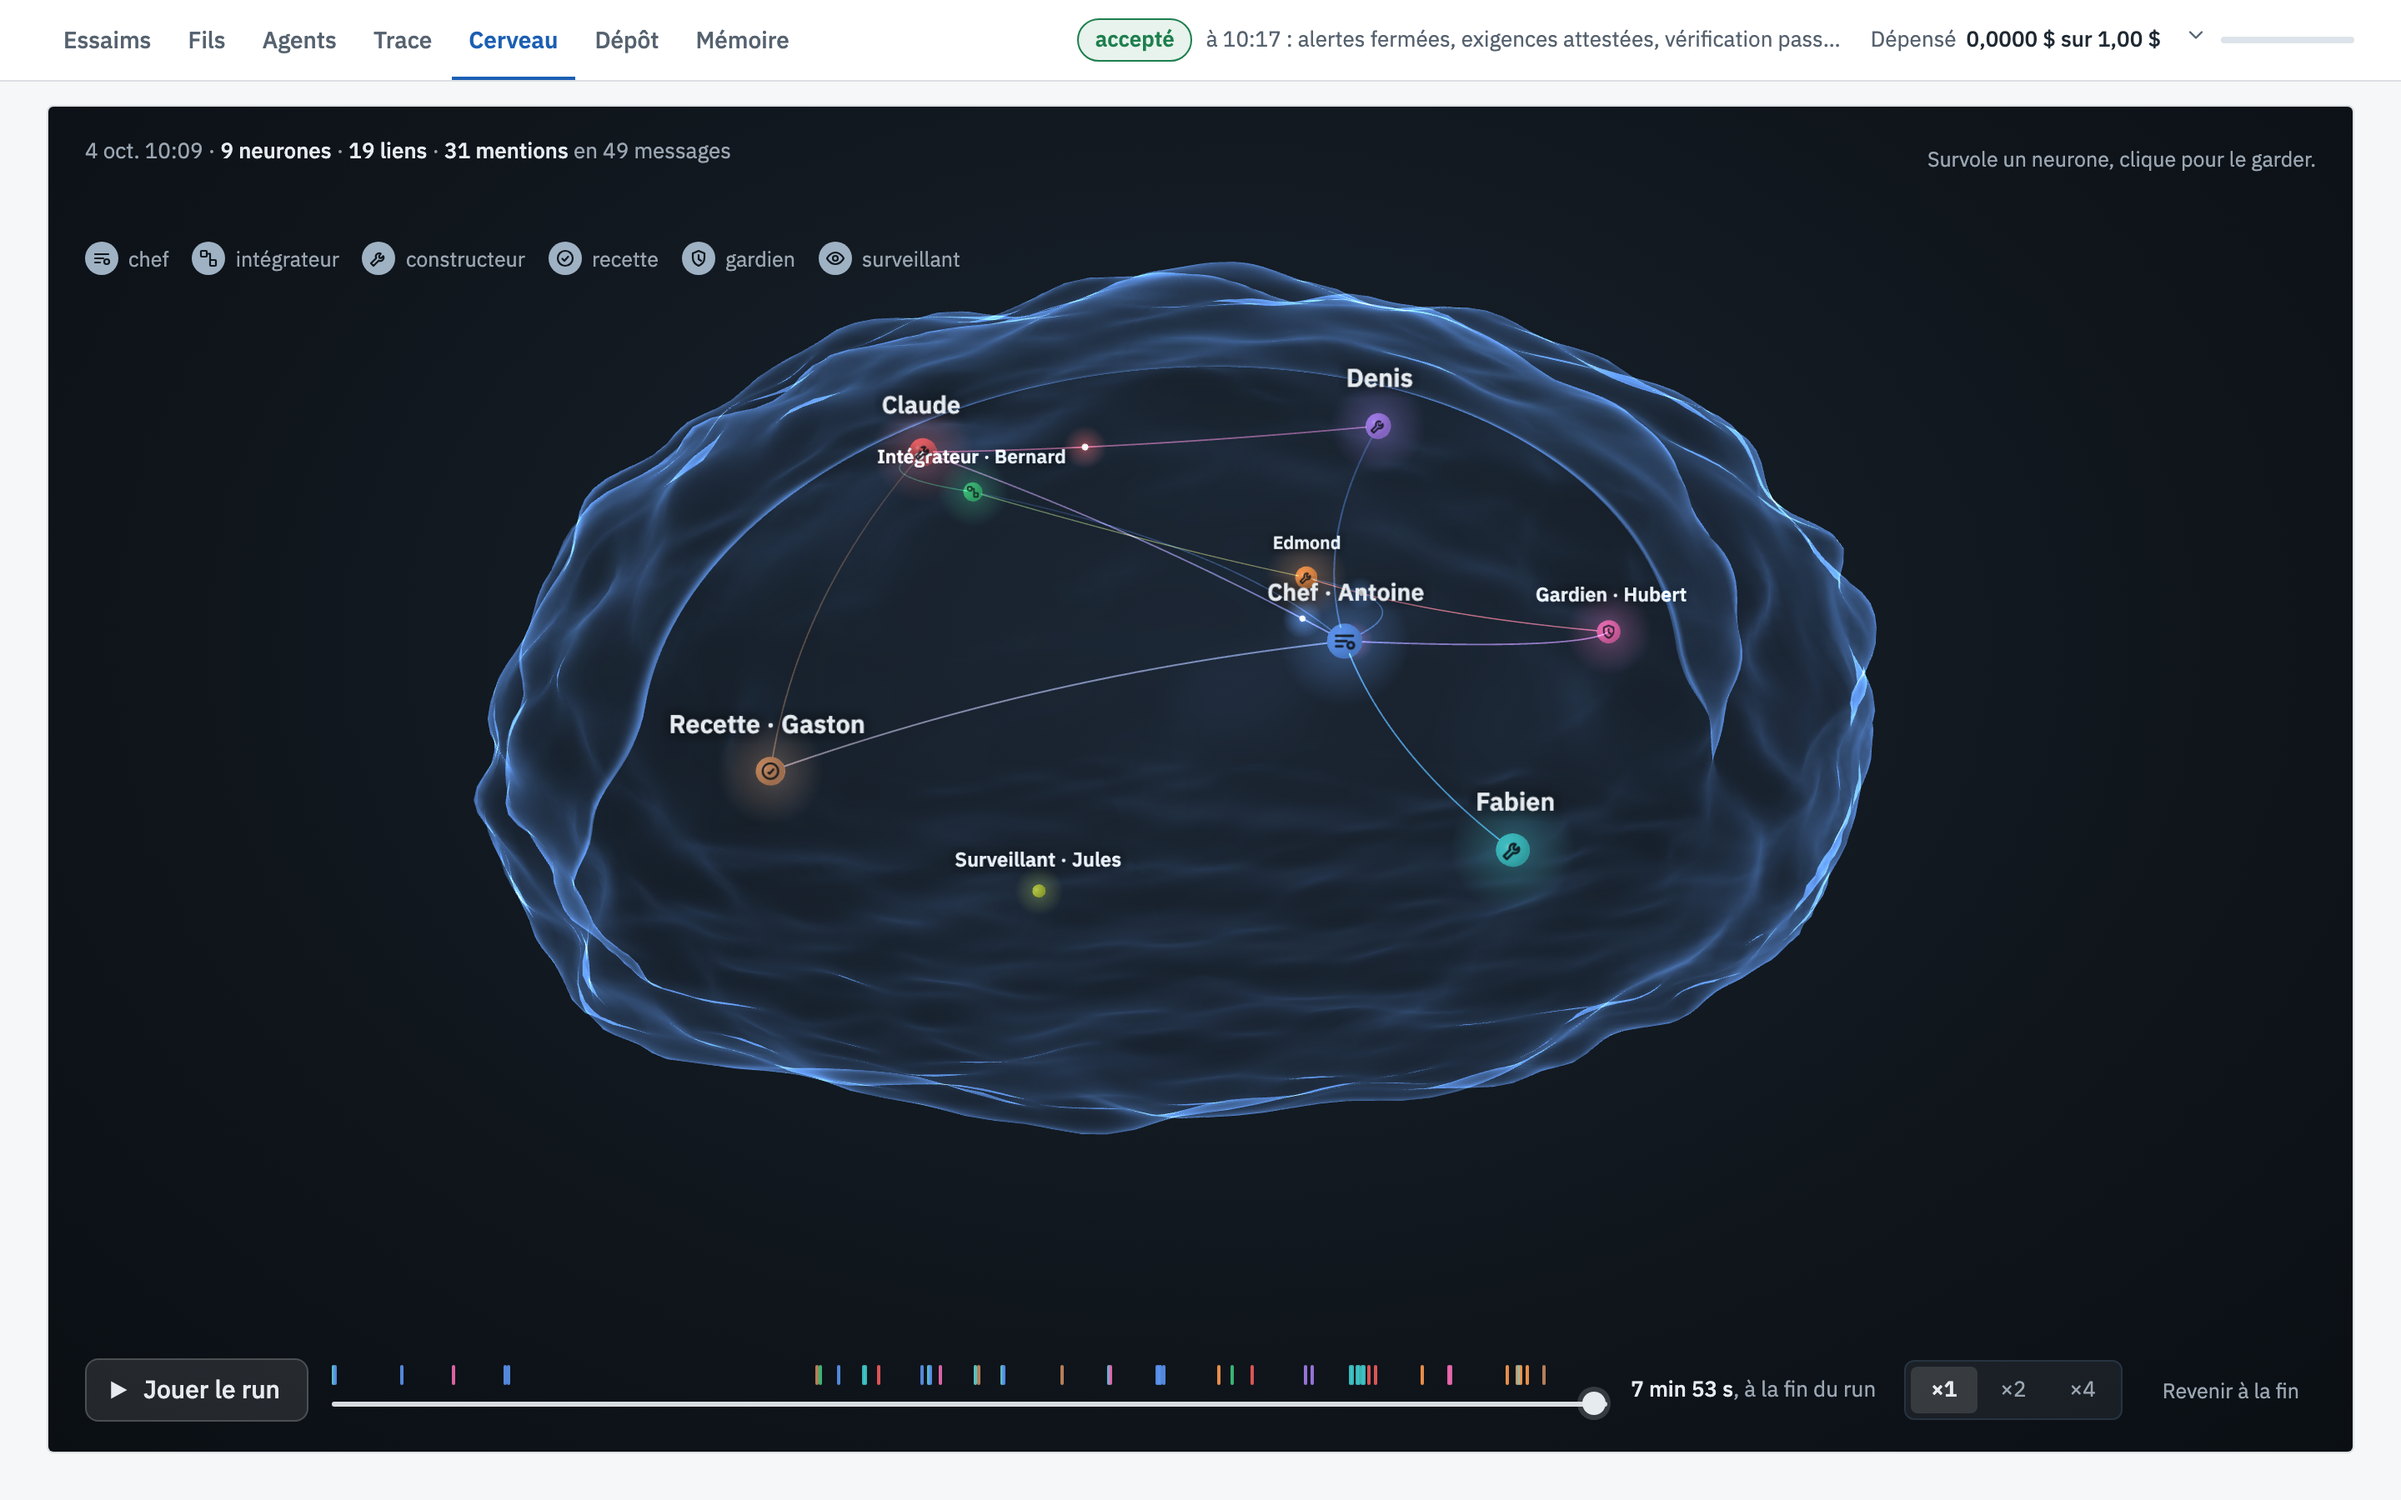
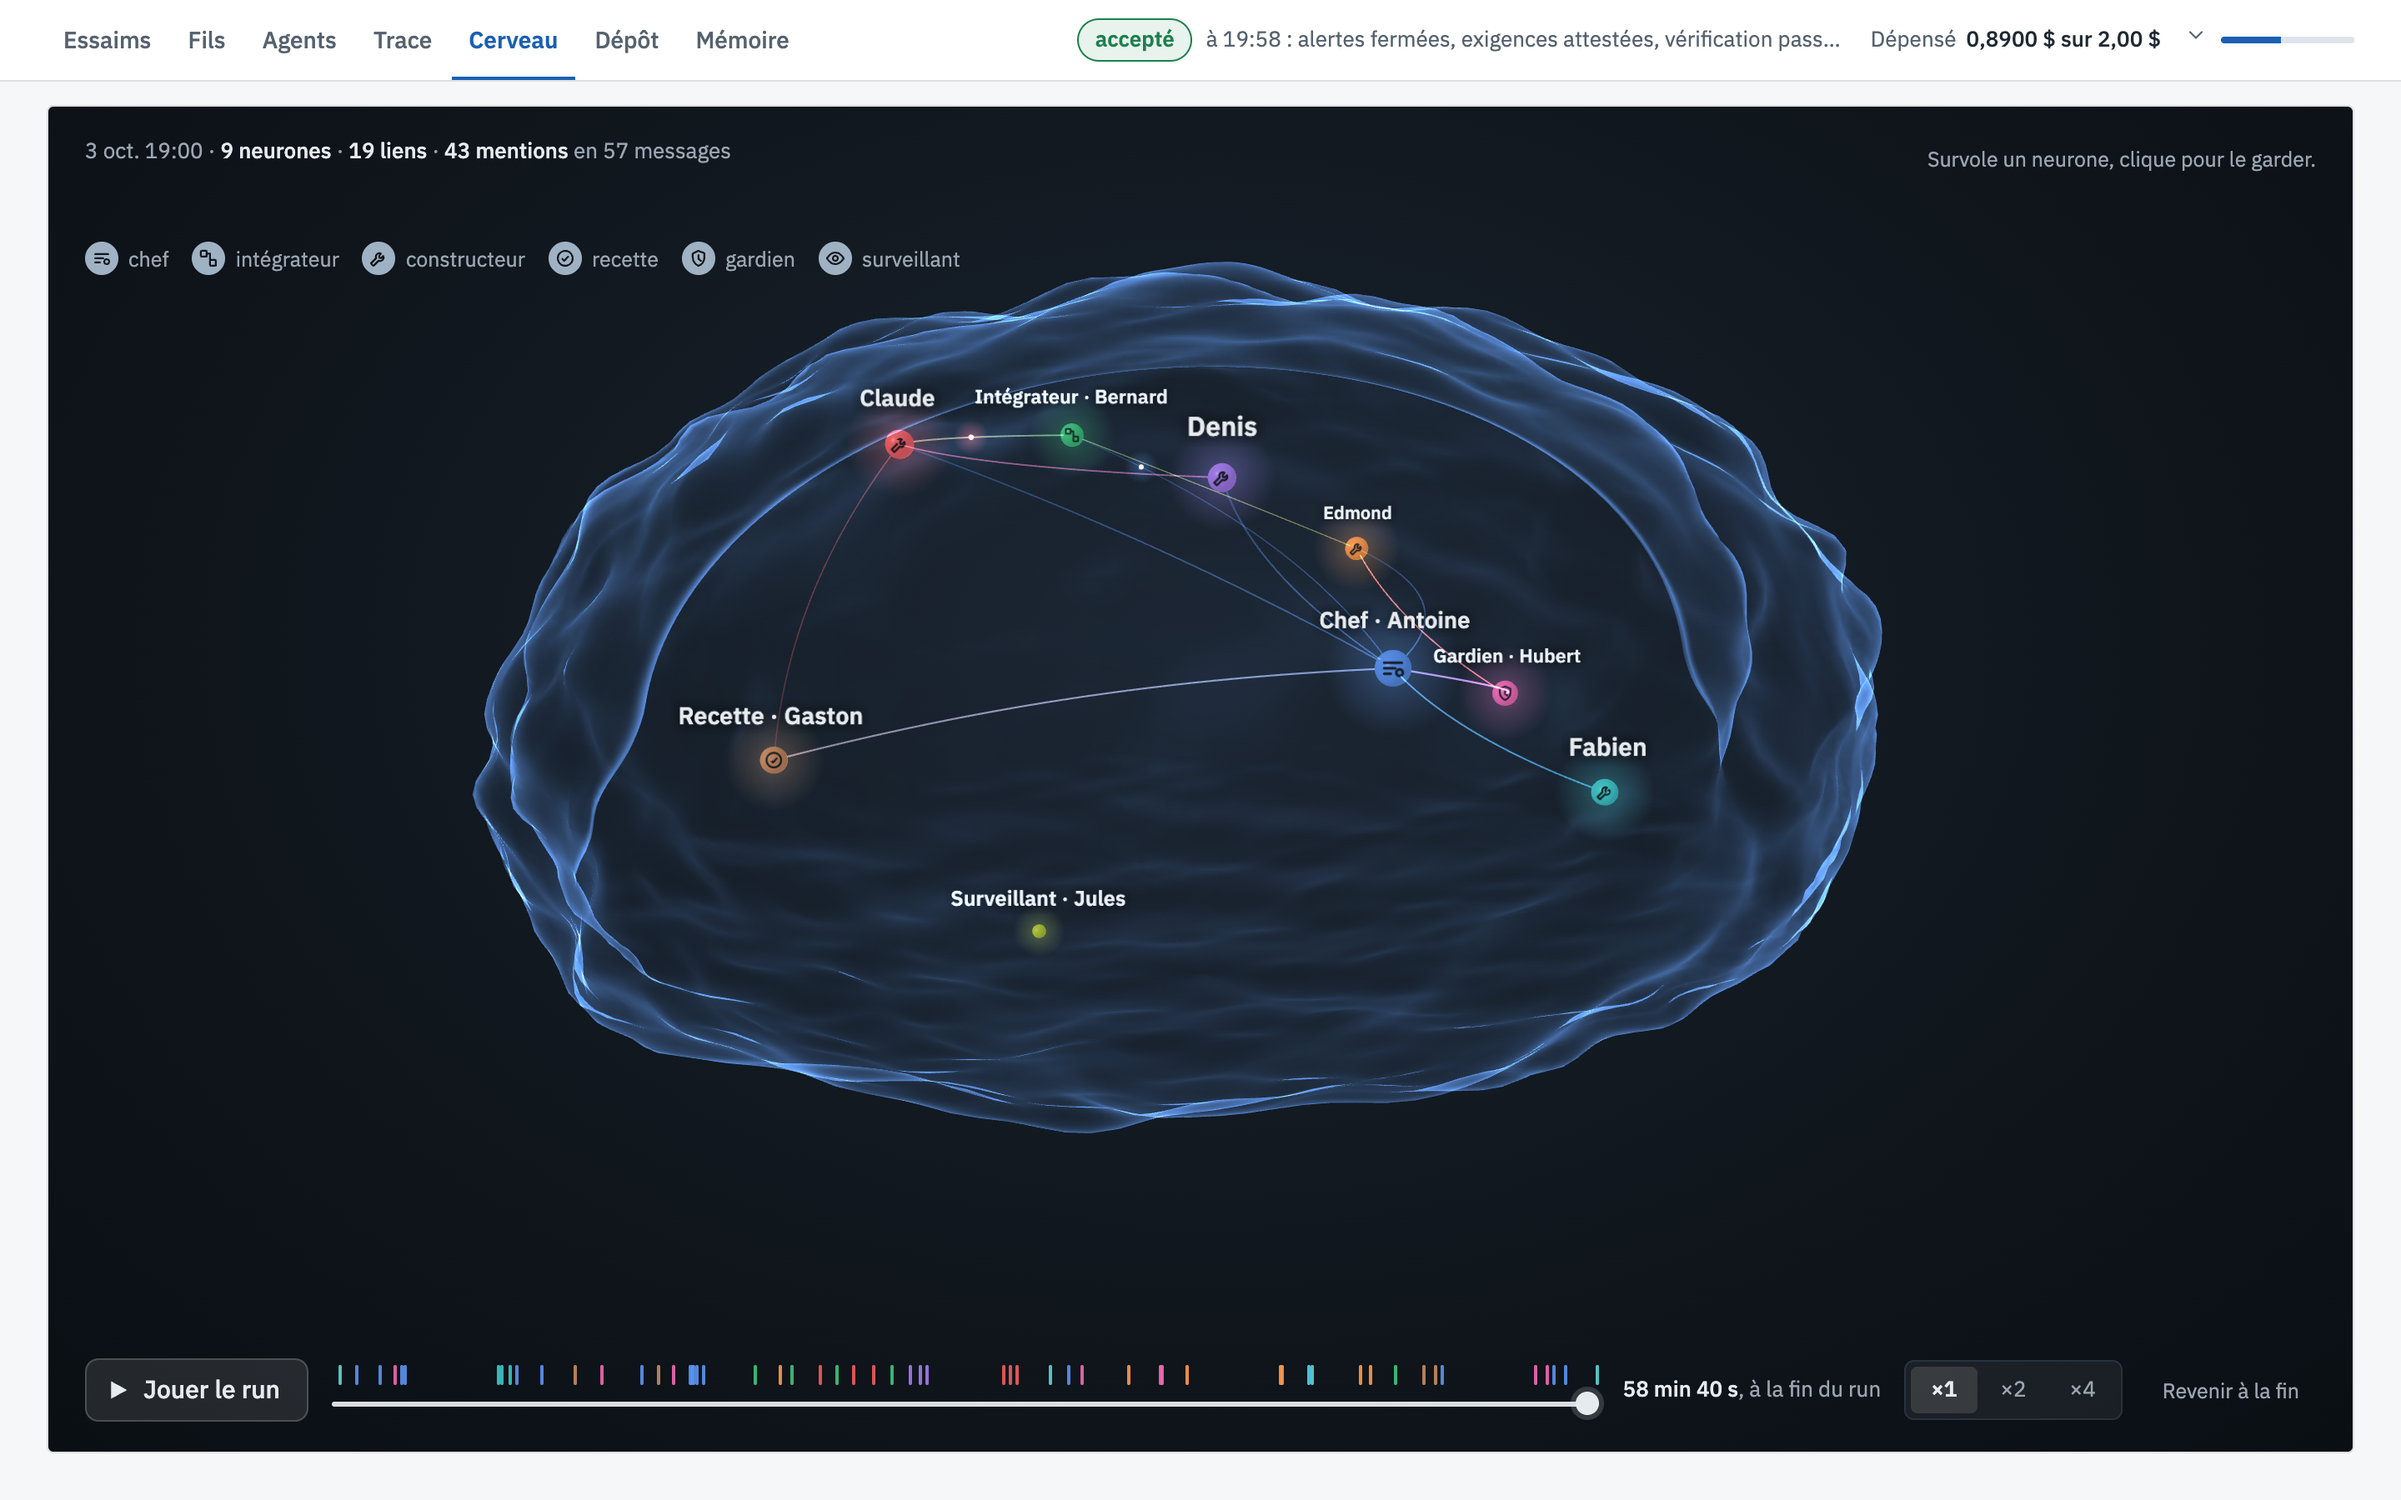
Docs : parler au chef, le coût, le cerveau du run final
Deux pages de plus (la consigne au chef et son historique, le panneau du coût
ouvert), la capture du cerveau refaite sur le run final, les écrans repris avec la
consigne du scénario ; la page Agents devient fiches-agents.md (agents.md se
confondait avec AGENTS.md sur un disque insensible à la casse).

diff --git a/docs/chef.md b/docs/chef.md
@@ -1,0 +1,40 @@
+# Parler au chef
+
+[← La vue, écran par écran](README.md)
+
+Pendant un run, tu peux glisser une consigne au chef sans arrêter la salle : le bouton **Chef**, en haut à droite
+de la vue.
+
+![La fenêtre « Parler au chef » pendant le run, à 19:38](images/pendant-chef.png)
+
+## Ce que tu vois
+
+1. **Le bouton Chef**, dans la barre du haut, avec une pastille : le nombre de consignes envoyées dans ce run
+   (ici 2).
+2. **L'historique**, en haut de la fenêtre : chaque consigne avec son heure, puis ce qu'elle est devenue.
+   - À 19:33 : *« Avant d'attester E2, faites essayer le cas limite… »*. La pastille **lu à 19:34** dit quand le
+     chef l'a reçue, et dessous, sa première réaction : Antoine a demandé aussitôt à Hubert de préparer ce cas.
+   - À 19:38 : *« Gardez le message de refus sur une seule ligne… »*, encore **envoyée, le lanceur la transmet** :
+     elle attend le prochain passage du lanceur.
+3. **La saisie**, en bas : une consigne précise, 600 signes au plus (le compteur l'affiche), puis *Envoyer*.
+   En haut à droite, *reçu par Antoine (chef) · signé lanceur* : qui la recevra, et sous quelle signature.
+
+## Comment elle arrive au chef
+
+1. La vue dépose la consigne dans le dossier du run ; aucun agent ne peut écrire dans ce dossier.
+2. Le lanceur la poste dans le fil principal, adressée au chef seul et signée `lanceur` :
+   *« Antoine : consigne : … »*. Elle ne réveille que lui.
+3. La fiche du chef lui dit qu'une consigne vient de la personne qui a lancé le run et qu'elle passe avant le reste
+   de son travail. Il la transmet à ceux qu'elle concerne, par un message ou un ticket.
+
+Dans ce run, c'est cette consigne qui a mis Hubert sur la piste : son cas limite (38 couverts, puis une table de 3)
+a trouvé, quatre minutes plus tard, le bug du 41e couvert.
+
+Une consigne est refusée si le run est terminé, si le lanceur ne tourne plus, ou si personne ne répartit le
+travail ; une consigne écartée reste visible dans l'historique.
+
+## À quoi ça sert
+
+À piloter sans casser l'organisation : tu ne parles pas aux constructeurs directement, tu passes par celui qui
+répartit le travail, comme dans une vraie équipe. Utile quand tu vois dans les écrans qu'un point important
+risque de passer à la trappe.

diff --git a/docs/README.md b/docs/README.md
@@ -27,7 +27,8 @@ L'histoire en bref : Antoine découpe la mission, Fabien mesure, la spec et le p
 et le gardien, puis chacun construit sa part. Claude veut écrire dans la part de Denis, l'outil refuse, il
 demande à Denis. Edmond livre un compteur qui accepte 41 couverts. Hubert le voit avec son propre cas et ouvre
 une alerte, Edmond corrige, le lanceur rejoue le cas et ferme l'alerte. Les deux exigences sont attestées, le
-run est accepté à 19:58.
+run est accepté à 19:58. En cours de route, la personne qui a lancé le run a glissé une consigne au chef : faire
+essayer le cas limite des 38 couverts. C'est ce cas qui a trouvé le bug.
 
 > **Ce run est une simulation.** Il a été fabriqué à la main pour la documentation : aucun modèle n'a tourné,
 > d'où le modèle `aucun-modele` affiché dans les écrans. La structure, elle, est exactement celle d'un vrai run :
@@ -39,11 +40,13 @@ Deux moments sont montrés : **pendant** le run (19:38, juste après l'alerte d'
 
 1. [Essaims](essaims.md) : l'équipe, la mission, le résultat et le tableau des messages.
 2. [Fils](fils.md) : la discussion, les tickets, et qui travaille sur quoi en ce moment.
-3. [Agents](agents.md) : la fiche de chaque agent et tout ce qu'il a fait.
+3. [Agents](fiches-agents.md) : la fiche de chaque agent et tout ce qu'il a fait.
 4. [Trace](trace.md) : chaque appel d'outil de toute la salle, filtrable.
 5. [Cerveau](cerveau.md) : la salle en 3D, qui parle à qui, rejouable dans le temps.
 6. [Dépôt](depot.md) : les tickets, les commits, les reçus de preuve et les essais.
 7. [Mémoire](memoire.md) : les leçons, les passations et ce que chaque agent a reçu.
+8. [Parler au chef](chef.md) : glisser une consigne au chef pendant le run, et suivre ce qu'elle devient.
+9. [Le coût](cout.md) : la dépense, le plafond, la durée, les appels et les tokens.
 
 En haut de chaque écran, la même barre : l'état du run (`accepté`, ou les boutons **Pause**, **Chef** et
-**Fermer** pendant un run), la phrase d'état et la dépense par rapport au plafond.
+**Fermer** pendant un run), la phrase d'état et la dépense par rapport au plafond, dont le détail s'ouvre d'un clic.

diff --git a/docs/cout.md b/docs/cout.md
@@ -1,0 +1,39 @@
+# Le coût
+
+[← La vue, écran par écran](README.md)
+
+En haut à droite de chaque écran, la dépense du run et sa jauge. Un clic sur le chevron ouvre le détail.
+
+## Pendant le run
+
+![Le panneau du coût ouvert, à 19:38](images/pendant-cout.png)
+
+## À la fin du run
+
+![Le panneau du coût ouvert, à la fin du run](images/fin-cout.png)
+
+## Ce que tu vois
+
+1. **Dépensé**, et le **plafond** du run : 0,6679 $ sur 2,00 $ à 19:38, puis 0,89 $ à la fin. La barre bleue
+   montre la part du plafond déjà dépensée. Au plafond, le lanceur coupe tout le monde net : le livrable est
+   gardé en l'état.
+2. **La durée** : depuis combien de temps le run tourne (*38 min 30 s, en cours*), ou combien il a duré
+   (*58 min 40 s, terminé*).
+3. **Les agents** : *9 sur 9 agents actifs* pendant le run, *9 sur 9 agents finis* à la fin.
+4. **Les appels d'outils** de toute la salle (114 à 19:38, 138 à la fin) et les **tokens** lus et écrits
+   (1,32 M puis 1,77 M).
+5. **Le modèle** utilisé ; avec deux modèles dans la salle, la dépense est détaillée par modèle.
+6. **Le constat du lanceur**, à la fin : le livrable (`index.html`, 630 octets) et le code de sortie de la
+   vérification de la mission (0).
+
+Le détail par agent, avec le coût et les tokens de chaque réponse du modèle, est dans l'écran
+[Agents](fiches-agents.md).
+
+> Dans ce run d'exemple, les montants sont fictifs mais réalistes : c'est l'ordre de grandeur d'un run de neuf
+> agents sur un modèle bon marché.
+
+## À quoi ça sert
+
+À garder la main sur l'argent. Le plafond est fixé au lancement (`--plafond`) ; la jauge dit à tout moment ce qu'il
+reste, et le détail permet de comparer deux runs : même livrable, combien de temps, combien d'appels, combien de
+tokens.

diff --git a/docs/cerveau.md b/docs/cerveau.md
@@ -4,22 +4,21 @@
 
 La salle en 3D : un neurone par agent, un trait chaque fois que l'un parle à l'autre.
 
-![L'écran Cerveau à la fin d'un run](images/fin-cerveau.png)
-
-> Cette capture vient d'une simulation plus courte du même scénario : son en-tête (heure, dépense) n'est pas
-> celui des autres écrans.
+![L'écran Cerveau à la fin du run](images/fin-cerveau.png)
 
 ## Ce que tu vois
 
 1. **Les neurones** : un par agent, de la couleur de son rôle, avec la légende en haut à gauche.
 2. **Les liens** : quand un agent écrit le prénom d'un autre, un trait part de lui vers l'autre, dans sa couleur.
-   Plus deux agents se parlent, plus le lien compte. En haut, le décompte : neurones, liens et mentions.
+   Plus deux agents se parlent, plus le lien compte. En haut, le décompte : ici 9 neurones, 19 liens et 43 mentions en 57 messages.
 3. **Le contour d'un cerveau** autour de la salle. Un neurone se survole pour voir l'agent ; un clic le garde
    affiché.
 4. **Jouer le run**, en bas : la frise montre chaque message dans le temps, et le bouton rejoue le run du début,
    en ×1, ×2 ou ×4. On voit les liens naître dans l'ordre où la salle a parlé.
 
-Le cerveau se dessine à la fin du run.
+Le cerveau se dessine à la fin du run. Ici, le chef est au centre : il parle à presque tout le monde. Le gardien
+et Edmond sont reliés par l'alerte, Claude et Denis par la mise en page, Claude et Bernard par l'essai. Le
+surveillant, qui n'a jamais eu à intervenir, reste seul.
 
 ## À quoi ça sert
 

diff --git a/docs/essaims.md b/docs/essaims.md
@@ -30,7 +30,7 @@ Pendant un run, la barre du haut porte trois boutons :
 - **Pause** arrête chaque agent dès qu'il n'a plus d'action en cours, sans rien lui faire payer ; *Reprendre* le
   relance là où il en était. Pratique pour fermer l'ordinateur sans perdre un run.
 - **Chef** ouvre une fenêtre pour envoyer une consigne au chef (600 signes au plus). Elle lui arrive signée par
-  le lanceur et passe avant le reste de son travail.
+  le lanceur et passe avant le reste de son travail : voir [Parler au chef](chef.md).
 - **Fermer** arrête le run proprement : les agents sortent, le bilan est écrit.
 
 ## À quoi ça sert
